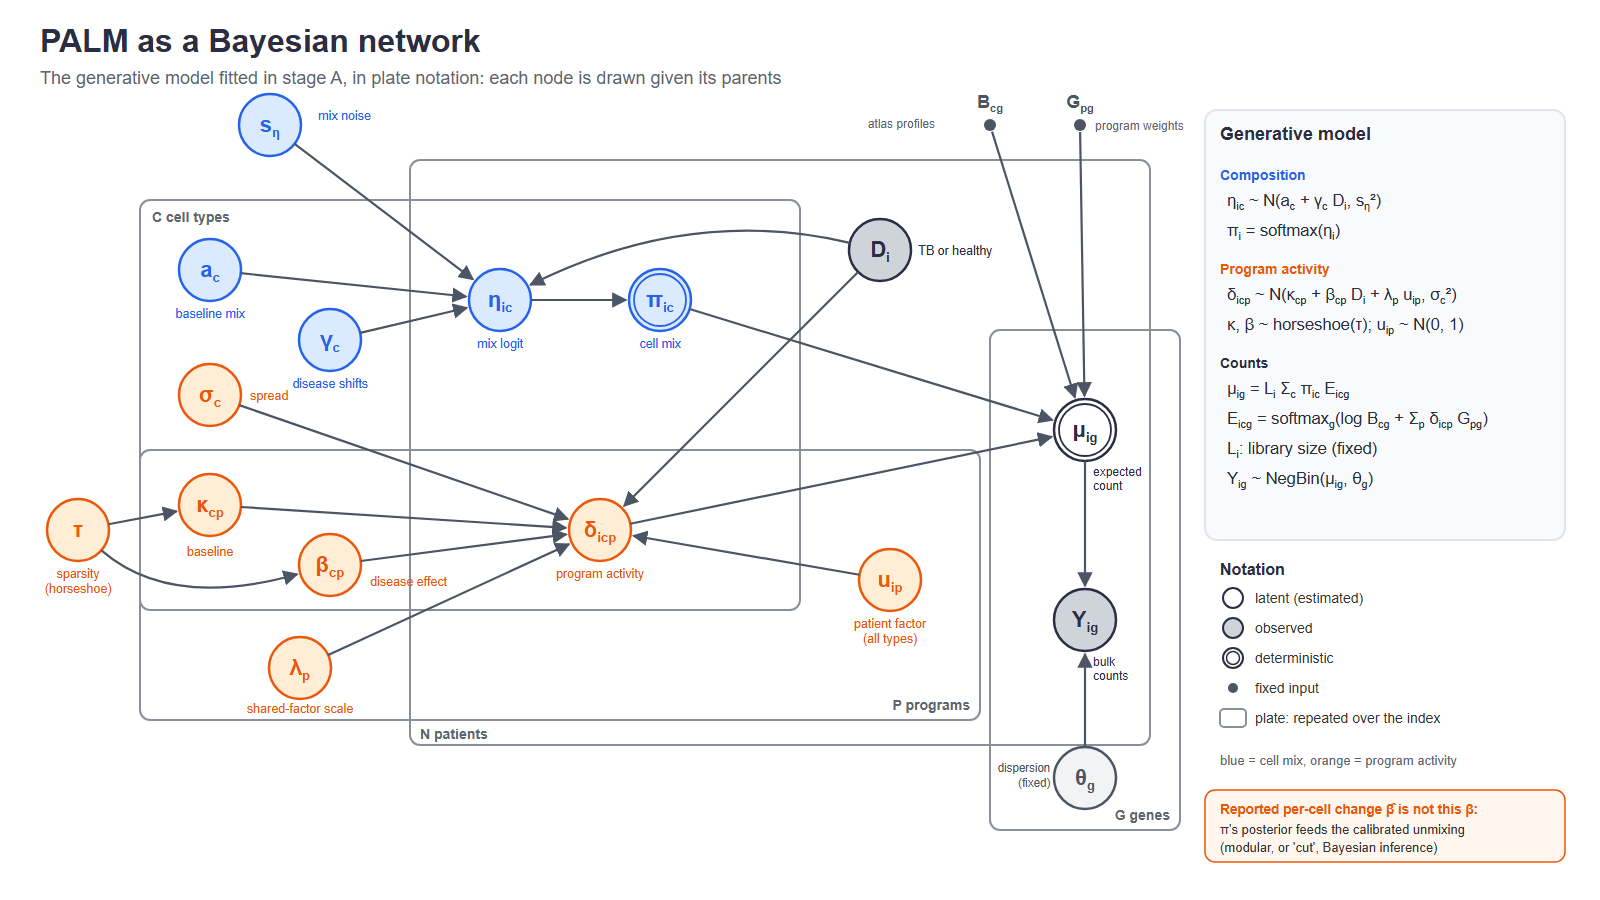
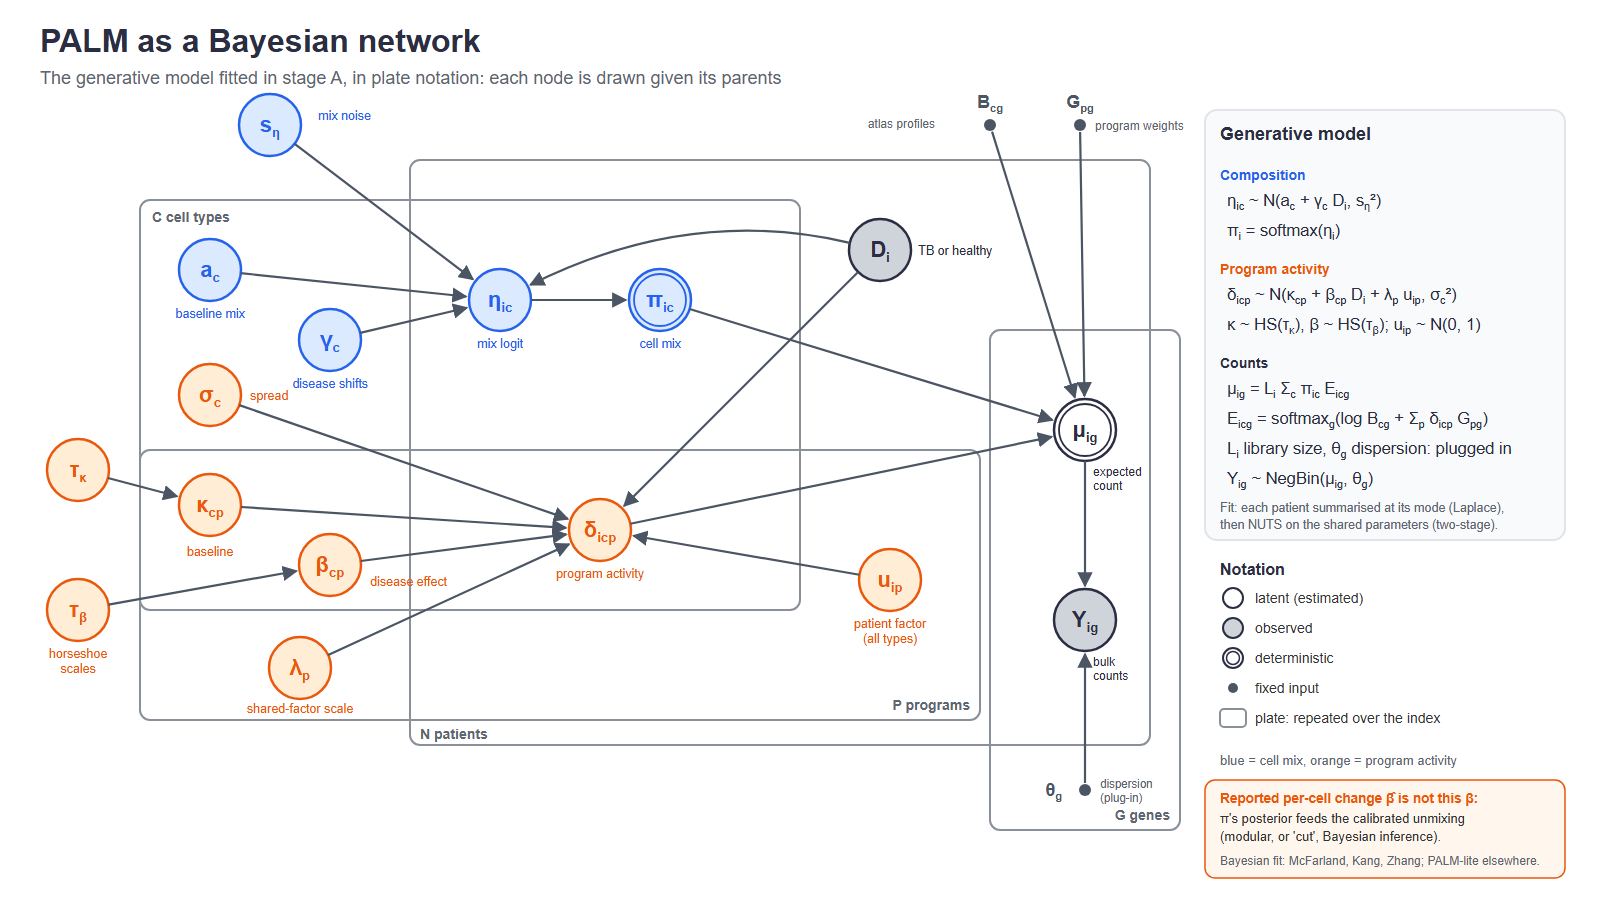
Bayes plate diagram matched to the code: separate horseshoe scales for kappa and beta, theta_g as plug-in, two-stage fit note, which datasets use the Bayesian fit

diff --git a/scripts/experiments/talk_graphical_model_bayes.py b/scripts/experiments/talk_graphical_model_bayes.py
@@ -87,7 +87,8 @@ plate(990, 330, 190, 500, "G genes", 1170, 820)
 # nodes
 s_eta = node(270, 125, "s", "η", "lat", BLUE, BLUE_F, None)
 text(318, 120, "mix noise", 12.5, BLUE, anchor="start")
-tau = node(78, 530, "τ", "", "lat", ORANGE, ORANGE_F, "sparsity", "(horseshoe)")
+tau_k = node(78, 470, "τ", "κ", "lat", ORANGE, ORANGE_F, None)
+tau_b = node(78, 610, "τ", "β", "lat", ORANGE, ORANGE_F, "horseshoe", "scales")
 a = node(210, 270, "a", "c", "lat", BLUE, BLUE_F, "baseline mix")
 gam = node(330, 340, "γ", "c", "lat", BLUE, BLUE_F, "disease shifts")
 sig = node(210, 395, "σ", "c", "lat", ORANGE, ORANGE_F, None)
@@ -108,8 +109,9 @@ mu = node(1085, 430, "μ", "ig", "det", DARK, "#ffffff", None)
 text(1093, 476, "expected", 12, DARK, anchor="start"); text(1093, 490, "count", 12, DARK, anchor="start")
 Y = node(1085, 620, "Y", "ig", "obs", DARK, OBS_F, None)
 text(1093, 666, "bulk", 12, DARK, anchor="start"); text(1093, 680, "counts", 12, DARK, anchor="start")
-theta = node(1085, 778, "θ", "g", "lat", GREY, "#f1f3f5", None)
-text(1050, 772, "dispersion", 11.5, GREY, anchor="end"); text(1050, 787, "(fixed)", 11.5, GREY, anchor="end")
+theta = dot(1085, 790, "θ", "g", None, below=False)
+s.append('<text x="1062" y="796" font-size="18" font-weight="bold" fill="%s" text-anchor="end">θ<tspan font-size="11" dy="4">g</tspan></text>' % GREY)
+text(1100, 788, "dispersion", 11.5, MUTED, anchor="start"); text(1100, 802, "(plug-in)", 11.5, MUTED, anchor="start")
 B = dot(990, 125, "B", "cg", None, below=False)
 Gp = dot(1080, 125, "G", "pg", None, below=False)
 s.append('<text x="990" y="108" font-size="18" font-weight="bold" fill="%s" text-anchor="middle">B<tspan font-size="11" dy="4">cg</tspan></text>' % GREY)
@@ -122,8 +124,8 @@ edge(a, eta)
 edge(gam, eta)
 edge(D, eta, bend=(690, 205))
 edge(eta, pi)
-edge(tau, kap)
-edge(tau, bet, bend=(170, 610))
+edge(tau_k, kap)
+edge(tau_b, bet)
 edge(kap, delta)
 edge(bet, delta)
 edge(sig, delta)
@@ -156,7 +158,7 @@ eqs = [
      "<tspan font-size='11' dy='4'>i</tspan><tspan dy='-4'> + λ</tspan><tspan font-size='11' dy='4'>p</tspan>"
      "<tspan dy='-4'> u</tspan><tspan font-size='11' dy='4'>ip</tspan><tspan dy='-4'>, σ</tspan>"
      "<tspan font-size='11' dy='4'>c</tspan><tspan dy='-4'>²)</tspan>", DARK),
-    ("κ, β ~ horseshoe(τ);  u<tspan font-size='11' dy='4'>ip</tspan><tspan dy='-4'> ~ N(0, 1)</tspan>", DARK),
+    ("κ ~ HS(τ<tspan font-size='11' dy='4'>κ</tspan><tspan dy='-4'>), β ~ HS(τ</tspan><tspan font-size='11' dy='4'>β</tspan><tspan dy='-4'>);  u</tspan><tspan font-size='11' dy='4'>ip</tspan><tspan dy='-4'> ~ N(0, 1)</tspan>", DARK),
     ("Counts", DARK),
     ("μ<tspan font-size='11' dy='4'>ig</tspan><tspan dy='-4'> = L</tspan><tspan font-size='11' dy='4'>i</tspan>"
      "<tspan dy='-4'> Σ</tspan><tspan font-size='11' dy='4'>c</tspan><tspan dy='-4'> π</tspan>"
@@ -165,7 +167,7 @@ eqs = [
      "<tspan dy='-4'>(log B</tspan><tspan font-size='11' dy='4'>cg</tspan><tspan dy='-4'> + Σ</tspan>"
      "<tspan font-size='11' dy='4'>p</tspan><tspan dy='-4'> δ</tspan><tspan font-size='11' dy='4'>icp</tspan>"
      "<tspan dy='-4'> G</tspan><tspan font-size='11' dy='4'>pg</tspan><tspan dy='-4'>)</tspan>", DARK),
-    ("L<tspan font-size='11' dy='4'>i</tspan><tspan dy='-4'>: library size (fixed)</tspan>", DARK),
+    ("L<tspan font-size='11' dy='4'>i</tspan><tspan dy='-4'> library size, θ</tspan><tspan font-size='11' dy='4'>g</tspan><tspan dy='-4'> dispersion: plugged in</tspan>", DARK),
     ("Y<tspan font-size='11' dy='4'>ig</tspan><tspan dy='-4'> ~ NegBin(μ</tspan><tspan font-size='11' dy='4'>ig</tspan>"
      "<tspan dy='-4'>, θ</tspan><tspan font-size='11' dy='4'>g</tspan><tspan dy='-4'>)</tspan>", DARK),
 ]
@@ -178,6 +180,9 @@ for t, c in eqs:
     else:
         s.append('<text x="%d" y="%d" font-size="16.5" fill="%s">%s</text>' % (X0 + 12, y, DARK, t))
     y += 30 if not head else 26
+
+text(X0 + 5, 512, "Fit: each patient summarised at its mode (Laplace),", 12.5, MUTED, anchor="start")
+text(X0 + 5, 529, "then NUTS on the shared parameters (two-stage).", 12.5, MUTED, anchor="start")
 
 # notation legend
 ly = 575
@@ -201,11 +206,12 @@ for k, (kind, lab) in enumerate(items):
 text(X0 + 5, ly + 190, "blue = cell mix, orange = program activity", 13, MUTED, anchor="start")
 
 # footnote
-s.append('<rect x="%d" y="790" width="360" height="72" rx="10" fill="#fff7ed" stroke="%s" stroke-width="1.5"/>'
+s.append('<rect x="%d" y="780" width="360" height="98" rx="10" fill="#fff7ed" stroke="%s" stroke-width="1.5"/>'
          % (X0 - 10, ORANGE))
-text(X0 + 5, 814, "Reported per-cell change β̂ is not this β:", 13.5, ORANGE, "bold", "start")
-text(X0 + 5, 834, "π's posterior feeds the calibrated unmixing", 13, "#333", anchor="start")
-text(X0 + 5, 852, "(modular, or 'cut', Bayesian inference)", 13, "#333", anchor="start")
+text(X0 + 5, 803, "Reported per-cell change β̂ is not this β:", 13.5, ORANGE, "bold", "start")
+text(X0 + 5, 823, "π's posterior feeds the calibrated unmixing", 13, "#333", anchor="start")
+text(X0 + 5, 841, "(modular, or 'cut', Bayesian inference).", 13, "#333", anchor="start")
+text(X0 + 5, 865, "Bayesian fit: McFarland, Kang, Zhang; PALM-lite elsewhere.", 12, MUTED, anchor="start")
 
 s.append("</svg>")
 with open(os.path.join(OUT, "2_2e_graphical_model_bayes.svg"), "w", encoding="utf-8") as fh:
